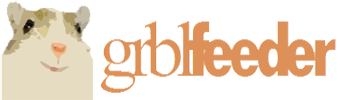
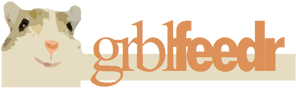
Added *ngc as a default file extension. Changed title.

diff --git a/find.py b/find.py
@@ -1,0 +1,29 @@
+import serial
+import sys
+import os
+
+def buildlist_incmac():
+    if(sys.platform == "darwin"):
+        devs = os.listdir("/dev/")
+        devs = [filename for filename in devs if filename[0] == 'c']
+        devs = [filename for filename in devs if filename[1] == 'u']
+        return devs
+    else:
+        return range(256)
+
+def scan():
+    """scan for available ports. return a list of tuples (num, name)"""
+    available = []
+    for i in buildlist_incmac():
+        try:
+            s = serial.Serial(i)
+            available.append( (i, s.portstr))
+            s.close()   # explicit close 'cause of delayed GC in java
+        except serial.SerialException:
+            pass
+    return available
+
+if __name__=='__main__':
+    print "Found ports:"
+    for n,s in scan():
+        print "(%d) %s" % (n,s)

diff --git a/ui.py b/ui.py
@@ -112,7 +112,7 @@ class SetUp(Ui_MainWindow):
 
     def openFile(self, parent=None):
         try:
-            fileName = QtGui.QFileDialog.getOpenFileName(None, u"Select G-Code to send to CNC",u"",u"GCode Files (*.nc *.gc);;All Files (*.*)")
+            fileName = QtGui.QFileDialog.getOpenFileName(None, u"Select G-Code to send to CNC",u"",u"GCode Files (*.nc *.gc *.ngc);;All Files (*.*)")
             fLoad = open(fileName[0],'r')
             del(contents[:])
             del(formattedcontents[:])
